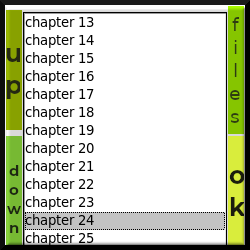
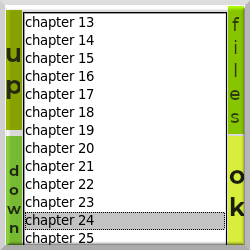
updated README

Changed region(s): [[0.0, 0.0, 1.0, 1.0]]

diff --git a/README.md b/README.md
@@ -27,7 +27,7 @@ you can change it in `player/constants.py`
 - shutdown.sh, turnwifion.sh and turnwifioff.sh need to be owned by root and need to be executable
 
 #### Play View
-![Screenshot of play view. Icons louder and quieter on the left. "Go to chapter view" and playpause buttons on the right.](/photos/playview.png "playview")
+![Screenshot of play view. Icons louder and quieter on the left. "Go to chapter view" and playpause buttons on the right.](/photos/playview_border.png "playview")
 
 - **[A,B]** change volume
 - **[X]** go to chapter view
@@ -41,16 +41,16 @@ you can change it in `player/constants.py`
 - **[X]** go to file view
 
 #### File View
-![Screenshot of file view. List of files in current directory in the middle. On the left scroll up and down icons. "Go to settings view" and ok icon the right.](/photos/fileview.png "fileview")
+![Screenshot of file view. List of files in current directory in the middle. On the left scroll up and down icons. "Go to settings view" and ok icon the right.](/photos/fileview_border.png "fileview")
 
 - **[A,B]** left buttons navigate the directory structure
 - **[X]** go to settings view
 - **[Y]** ok: opens directory or if it is an mp3 or m4a open the file for playback
 
 #### Settings View
-![Screenshot of settings view 1. On the left is turn sleep timer off and turn wifi off. On the right is icon "go to play view" and shutdown](/photos/settingsview_turnsleepoff_turnwifioff.png "settingsview1")
+![Screenshot of settings view 1. On the left is turn sleep timer off and turn wifi off. On the right is icon "go to play view" and shutdown](/photos/settingsview_turnsleepoff_turnwifioff_border.png "settingsview1")
 
-![Screenshot of settings view 2. On the left is turn sleep timer on and turn wifi on. On the right is icon "go to play view" and shutdown](/photos/settingsview_turnsleepon_turnwifion.png "settingsview2")
+![Screenshot of settings view 2. On the left is turn sleep timer on and turn wifi on. On the right is icon "go to play view" and shutdown](/photos/settingsview_turnsleepon_turnwifion_border.png "settingsview2")
 
 - **[A]** turn sleep timer on/off
 if on, the player saves the current audiobook and position and shuts down the pi
